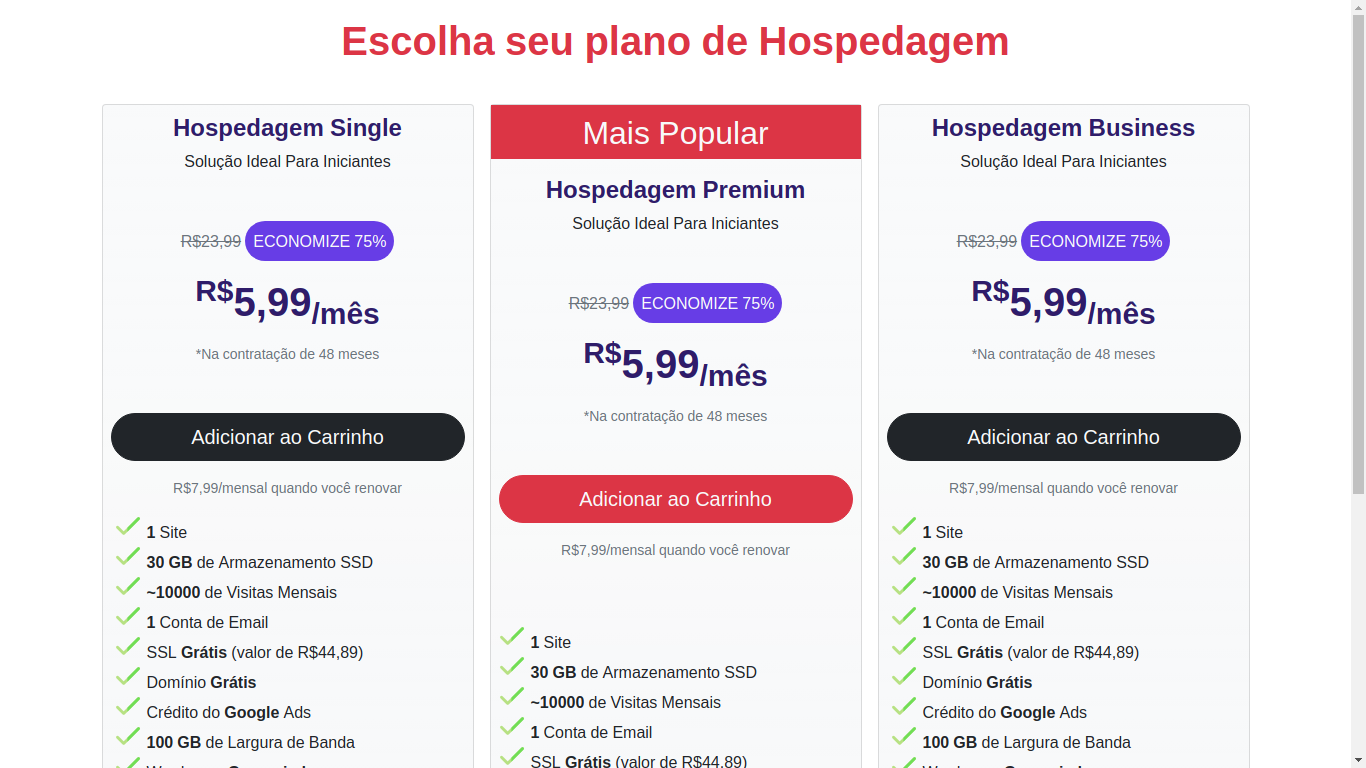
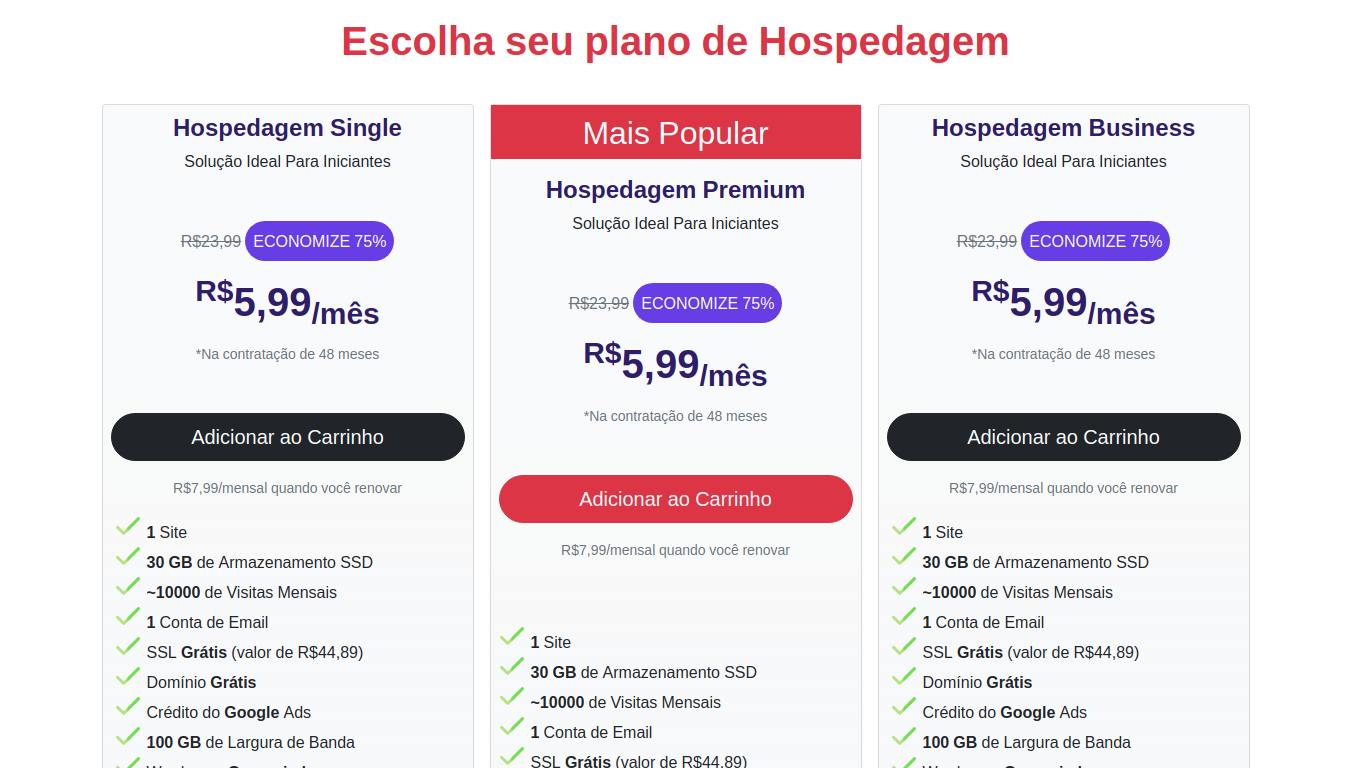
update

diff --git a/README.md b/README.md
@@ -9,4 +9,6 @@
 - CSS
 - BOOTSTRAP
 
+![Pricing Plans Desktop](pricing-plans-desktop.png)
+
 ![Screenshot Pricing Plans](screenshot-pricing-plans.png)
